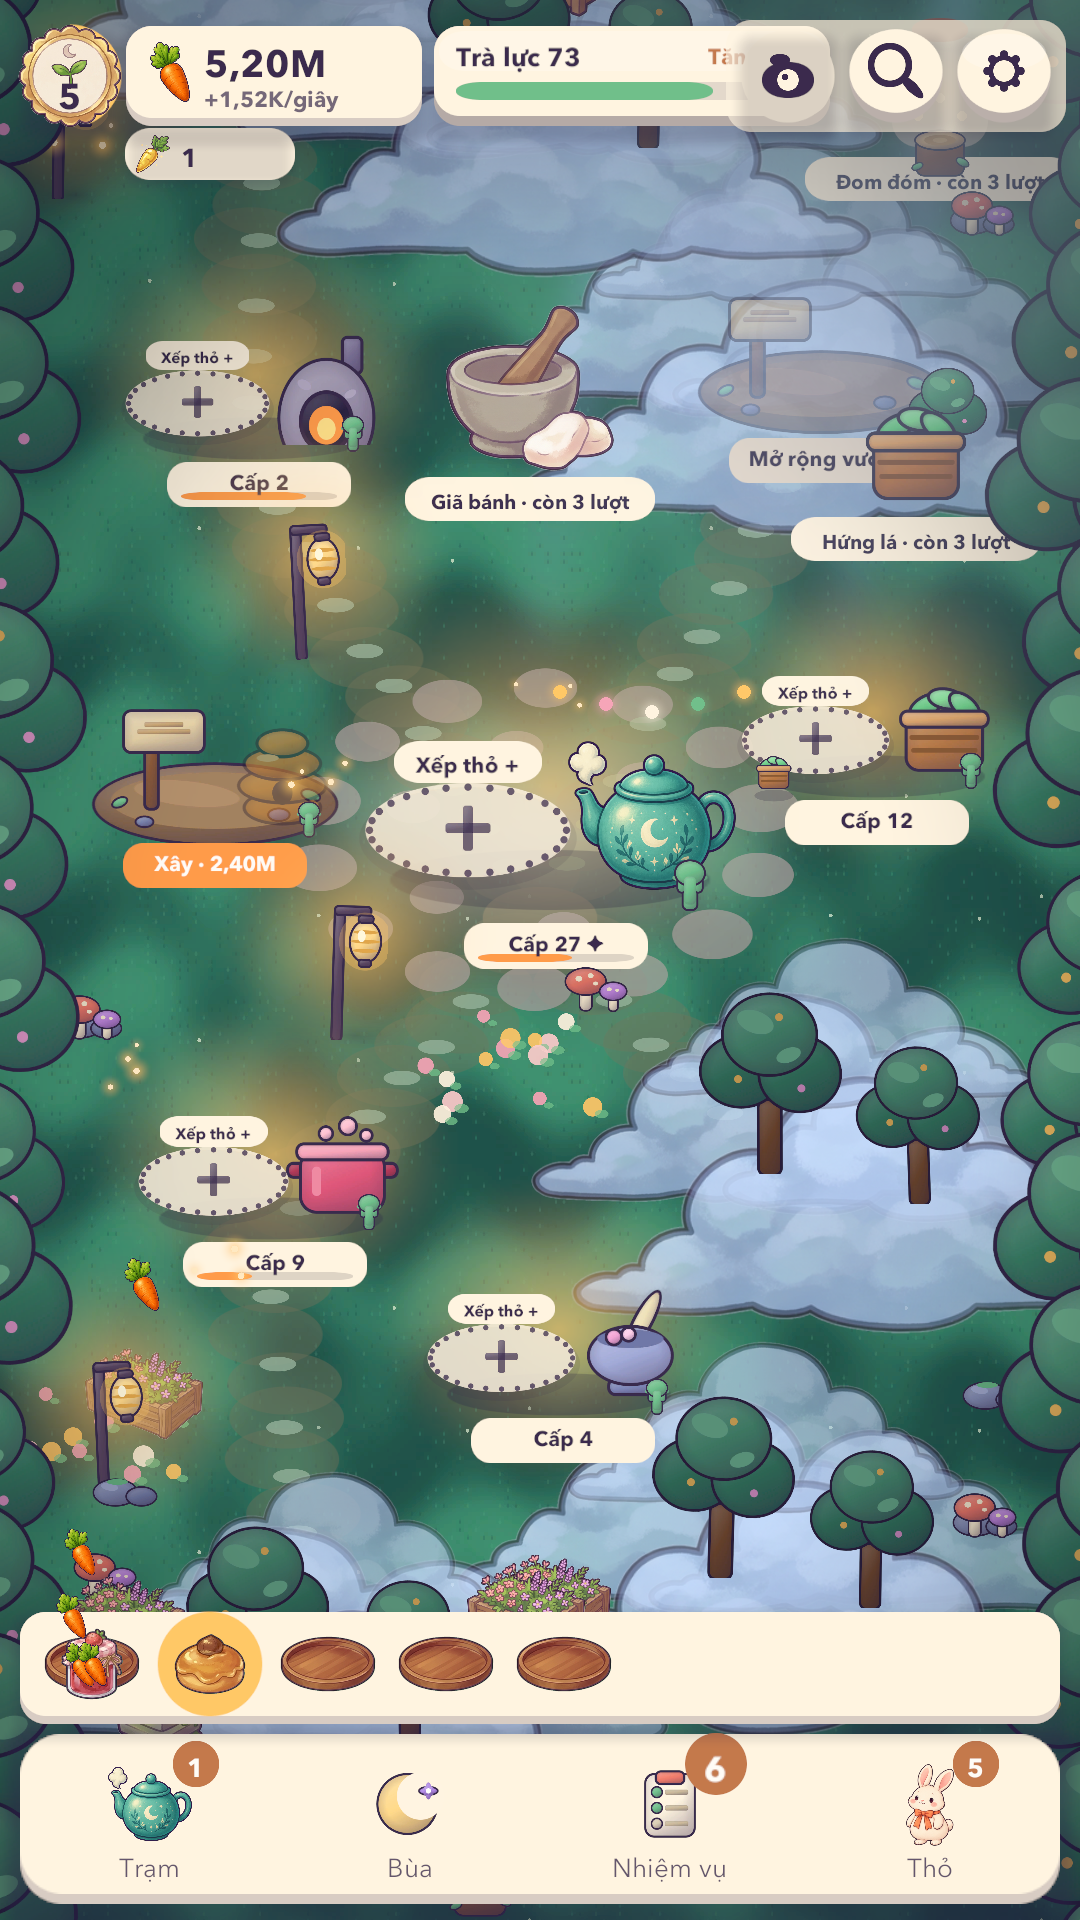
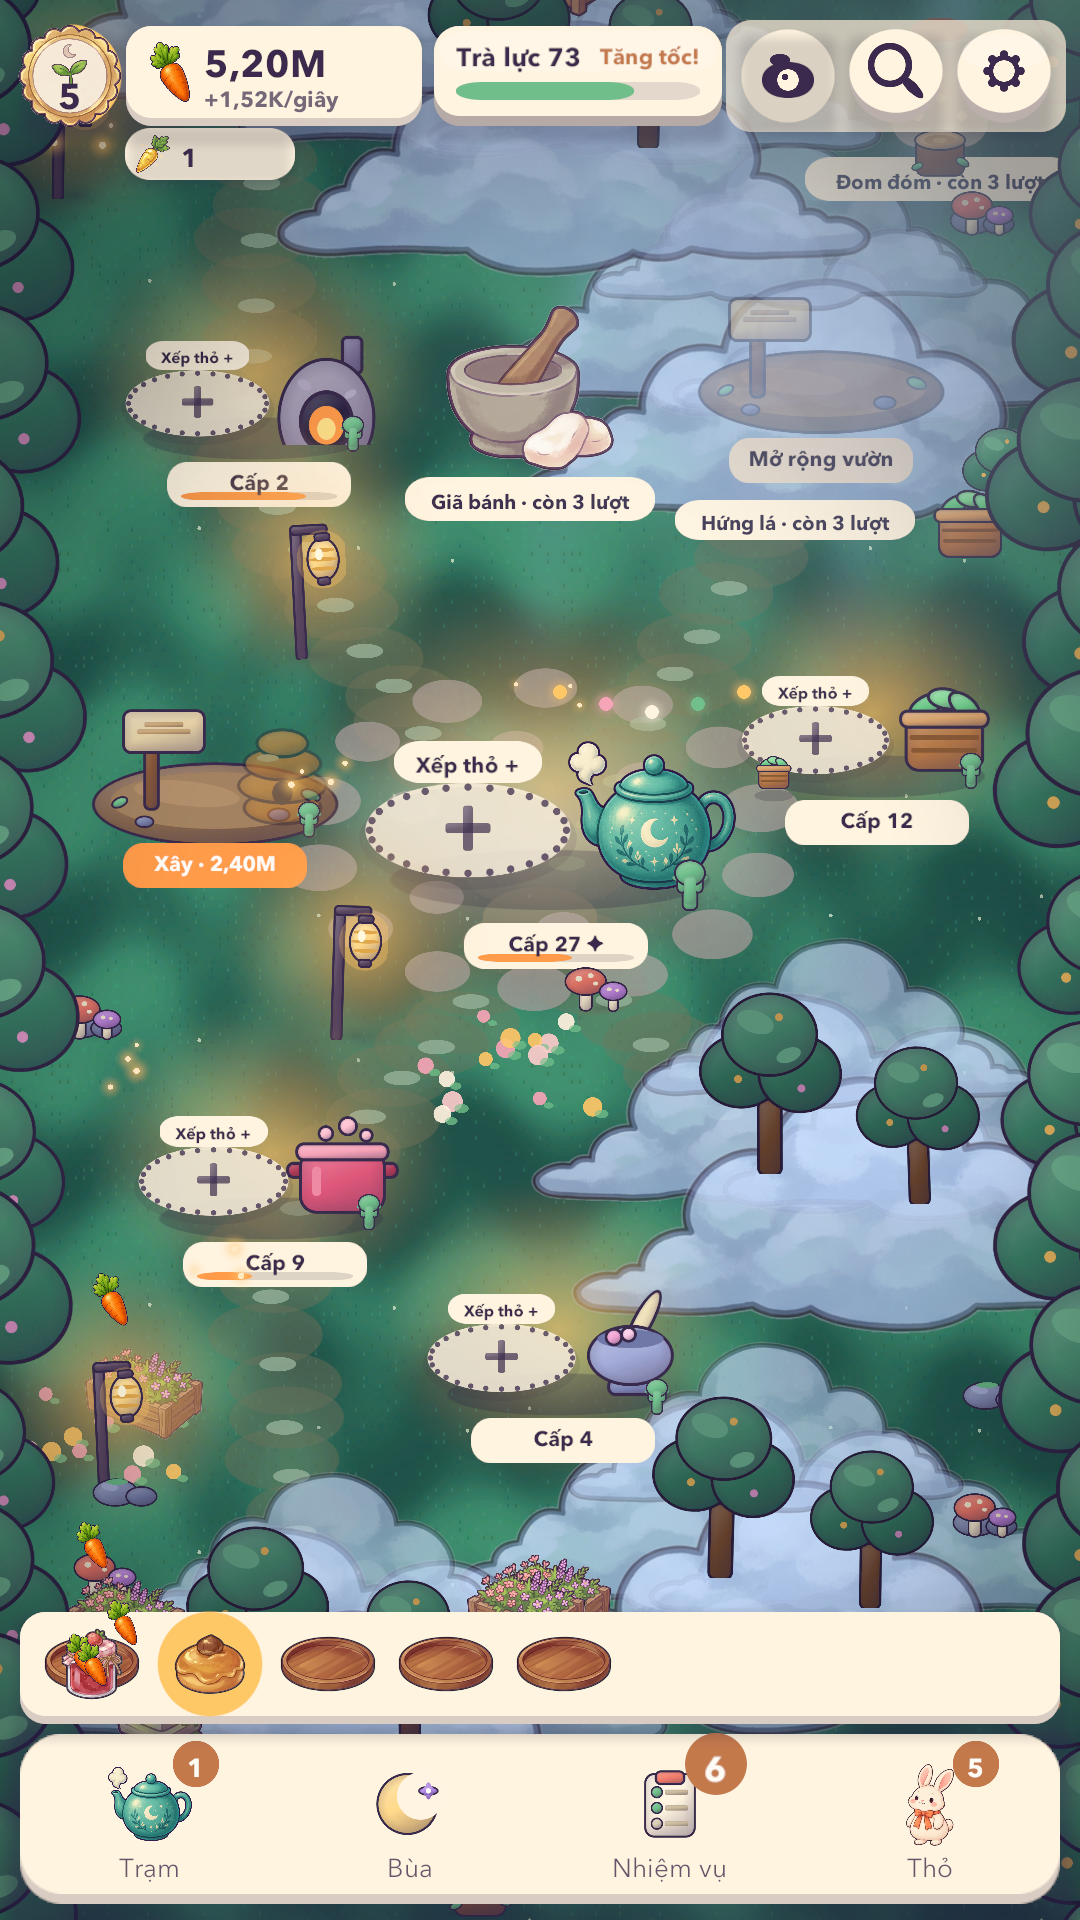
The tea bar ends before the corner plate so "Tăng tốc" is never under the buttons, and the leaf basket is smaller, further right and carries its plate on its left, clear of the expansion sign and the station names

diff --git a/Assets/VuonTra/Game/UI/GardenScreen.cs b/Assets/VuonTra/Game/UI/GardenScreen.cs
@@ -1294,7 +1294,9 @@ namespace VuonTra.Game.UI
             {
                 int leafStation = 1;
                 for (int i = 0; i < Runner.Defs.Count; i++) if (Runner.Defs[i].Id == "gio-la") { leafStation = i; break; }
-                Vector2 basketAt = StationSpot(leafStation) + new Vector2(50f, 190f);
+                // Past the leaf station on the right, in the one gap between its name and the next station's plate: a
+                // small basket, with its plate hung on its left so neither covers a sign.
+                Vector2 basketAt = StationSpot(leafStation) + new Vector2(104f, 130f);
                 if (catalog.Decor != null && catalog.Decor.Length > 0 && catalog.Decor[0] != null)
                 {
                     Image tree = AddDecor(_street, catalog.Decor[0], basketAt.x + 30f, basketAt.y + 40f, 150f * DecorScale, Color.white);
@@ -1302,7 +1304,7 @@ namespace VuonTra.Game.UI
                     standing.Add(new KeyValuePair<float, Transform>(basketAt.y + 40f, tree.transform));
                 }
                 Sprite basketSprite = leafStation < catalog.Stations.Length && catalog.Stations[leafStation] != null ? catalog.Stations[leafStation].Prop : null;
-                _basketProp = UiKit.Rect("Basket", _street).Place(0f, 0f, basketAt.x, basketAt.y + 60f, 150, 130);
+                _basketProp = UiKit.Rect("Basket", _street).Place(0f, 0f, basketAt.x, basketAt.y + 48f, 110, 95);
                 Image basketImage = _basketProp.AddImage(basketSprite != null ? basketSprite : catalog.Round, basketSprite != null ? Color.white : Palette.Mix(Palette.Carrot, Palette.Ink, 0.35f));
                 basketImage.preserveAspect = true;
                 basketImage.raycastTarget = true;
@@ -1310,7 +1312,7 @@ namespace VuonTra.Game.UI
                 basketButton.transition = Selectable.Transition.None;
                 basketButton.targetGraphic = basketImage;
                 basketButton.onClick.AddListener(OpenLeaves);
-                var basketPlate = UiKit.Rect("Plate", _basketProp).Place(0.5f, 0f, 0, -26, 250, 44);
+                var basketPlate = UiKit.Rect("Plate", _basketProp).Place(0f, 0.5f, -120, 0, 240, 40); // wide enough for "Hứng lá · còn 3 lượt" on one line
                 basketPlate.AddImage(catalog.Panel, Palette.Paper, true);
                 _basketPlate = UiKit.Rect("Text", basketPlate).Stretch(0, 0, 1, 1, 10, 0, 10, 0).AddText("", 20, Palette.Ink, TextAnchor.MiddleCenter, FontStyle.Bold);
                 _basketPlate.resizeTextForBestFit = true;
@@ -2448,7 +2450,8 @@ namespace VuonTra.Game.UI
                 .AddText(L10n.T("persec", "0"), UiKit.TextSmall, Palette.InkSoft, TextAnchor.MiddleLeft, FontStyle.Bold);
 
             // "Trà lực": the bar and the boost button are one control.
-            var energy = UiKit.Rect("Energy", _hud).Place(0f, 1f, 632, -76, 396, 100);
+            // Ends before the corner plate (which starts 354 from the right edge), so "Tăng tốc" is never under it.
+            var energy = UiKit.Rect("Energy", _hud).Place(0f, 1f, 578, -76, 288, 100);
             energy.AddShadow();
             _energyButton = UiKit.Chunky(energy, catalog.Panel, OnBoost);
             // Short of power: the bar says how long until a burst can be paid for, instead of doing nothing.
